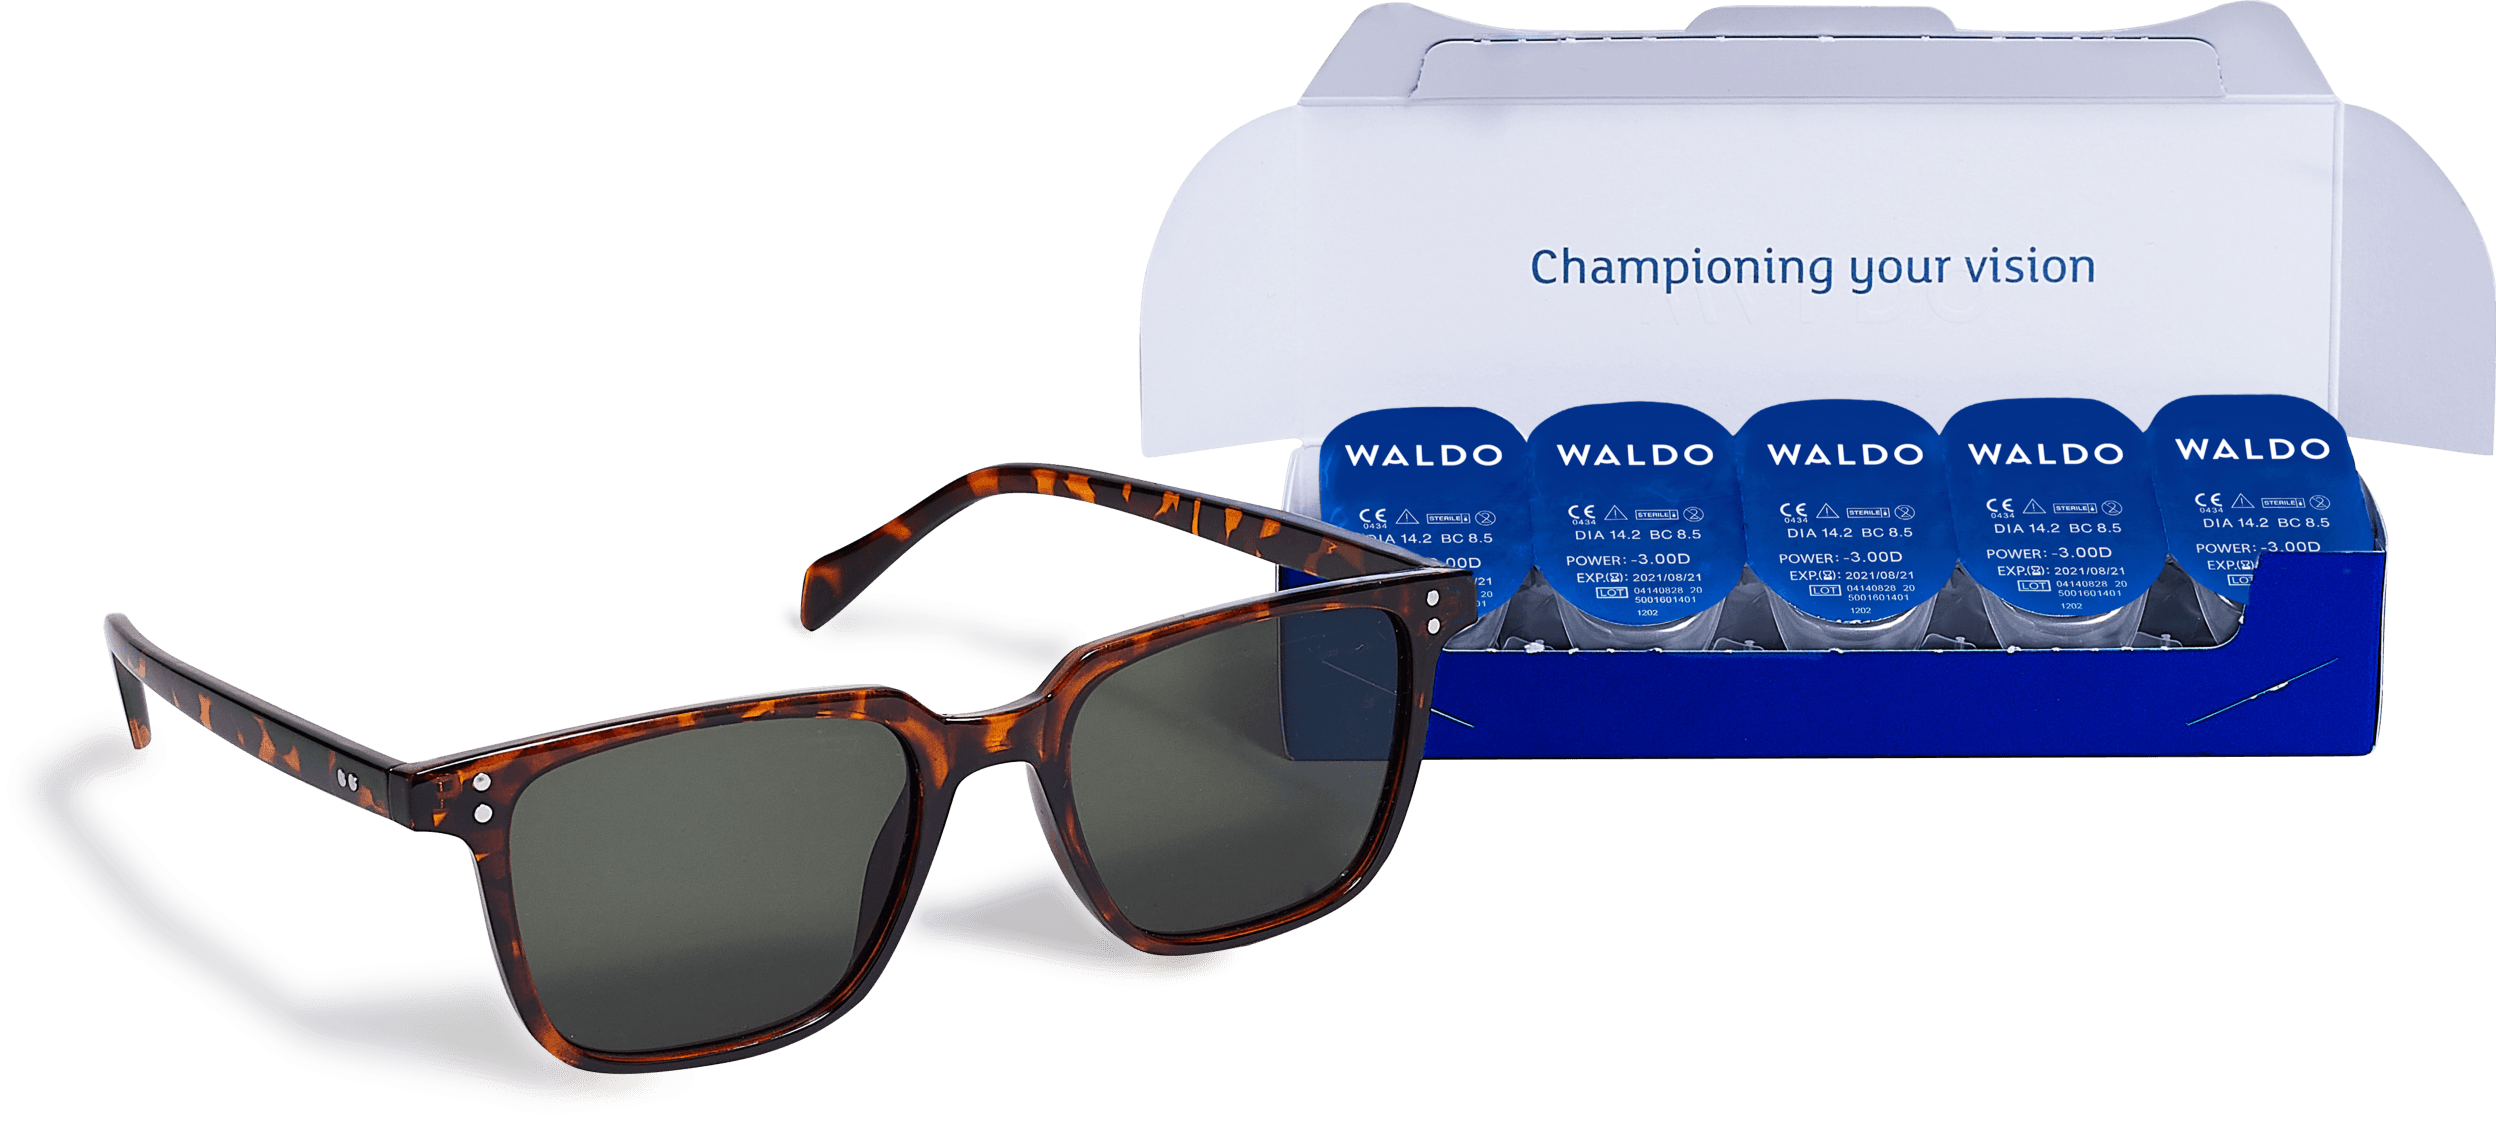
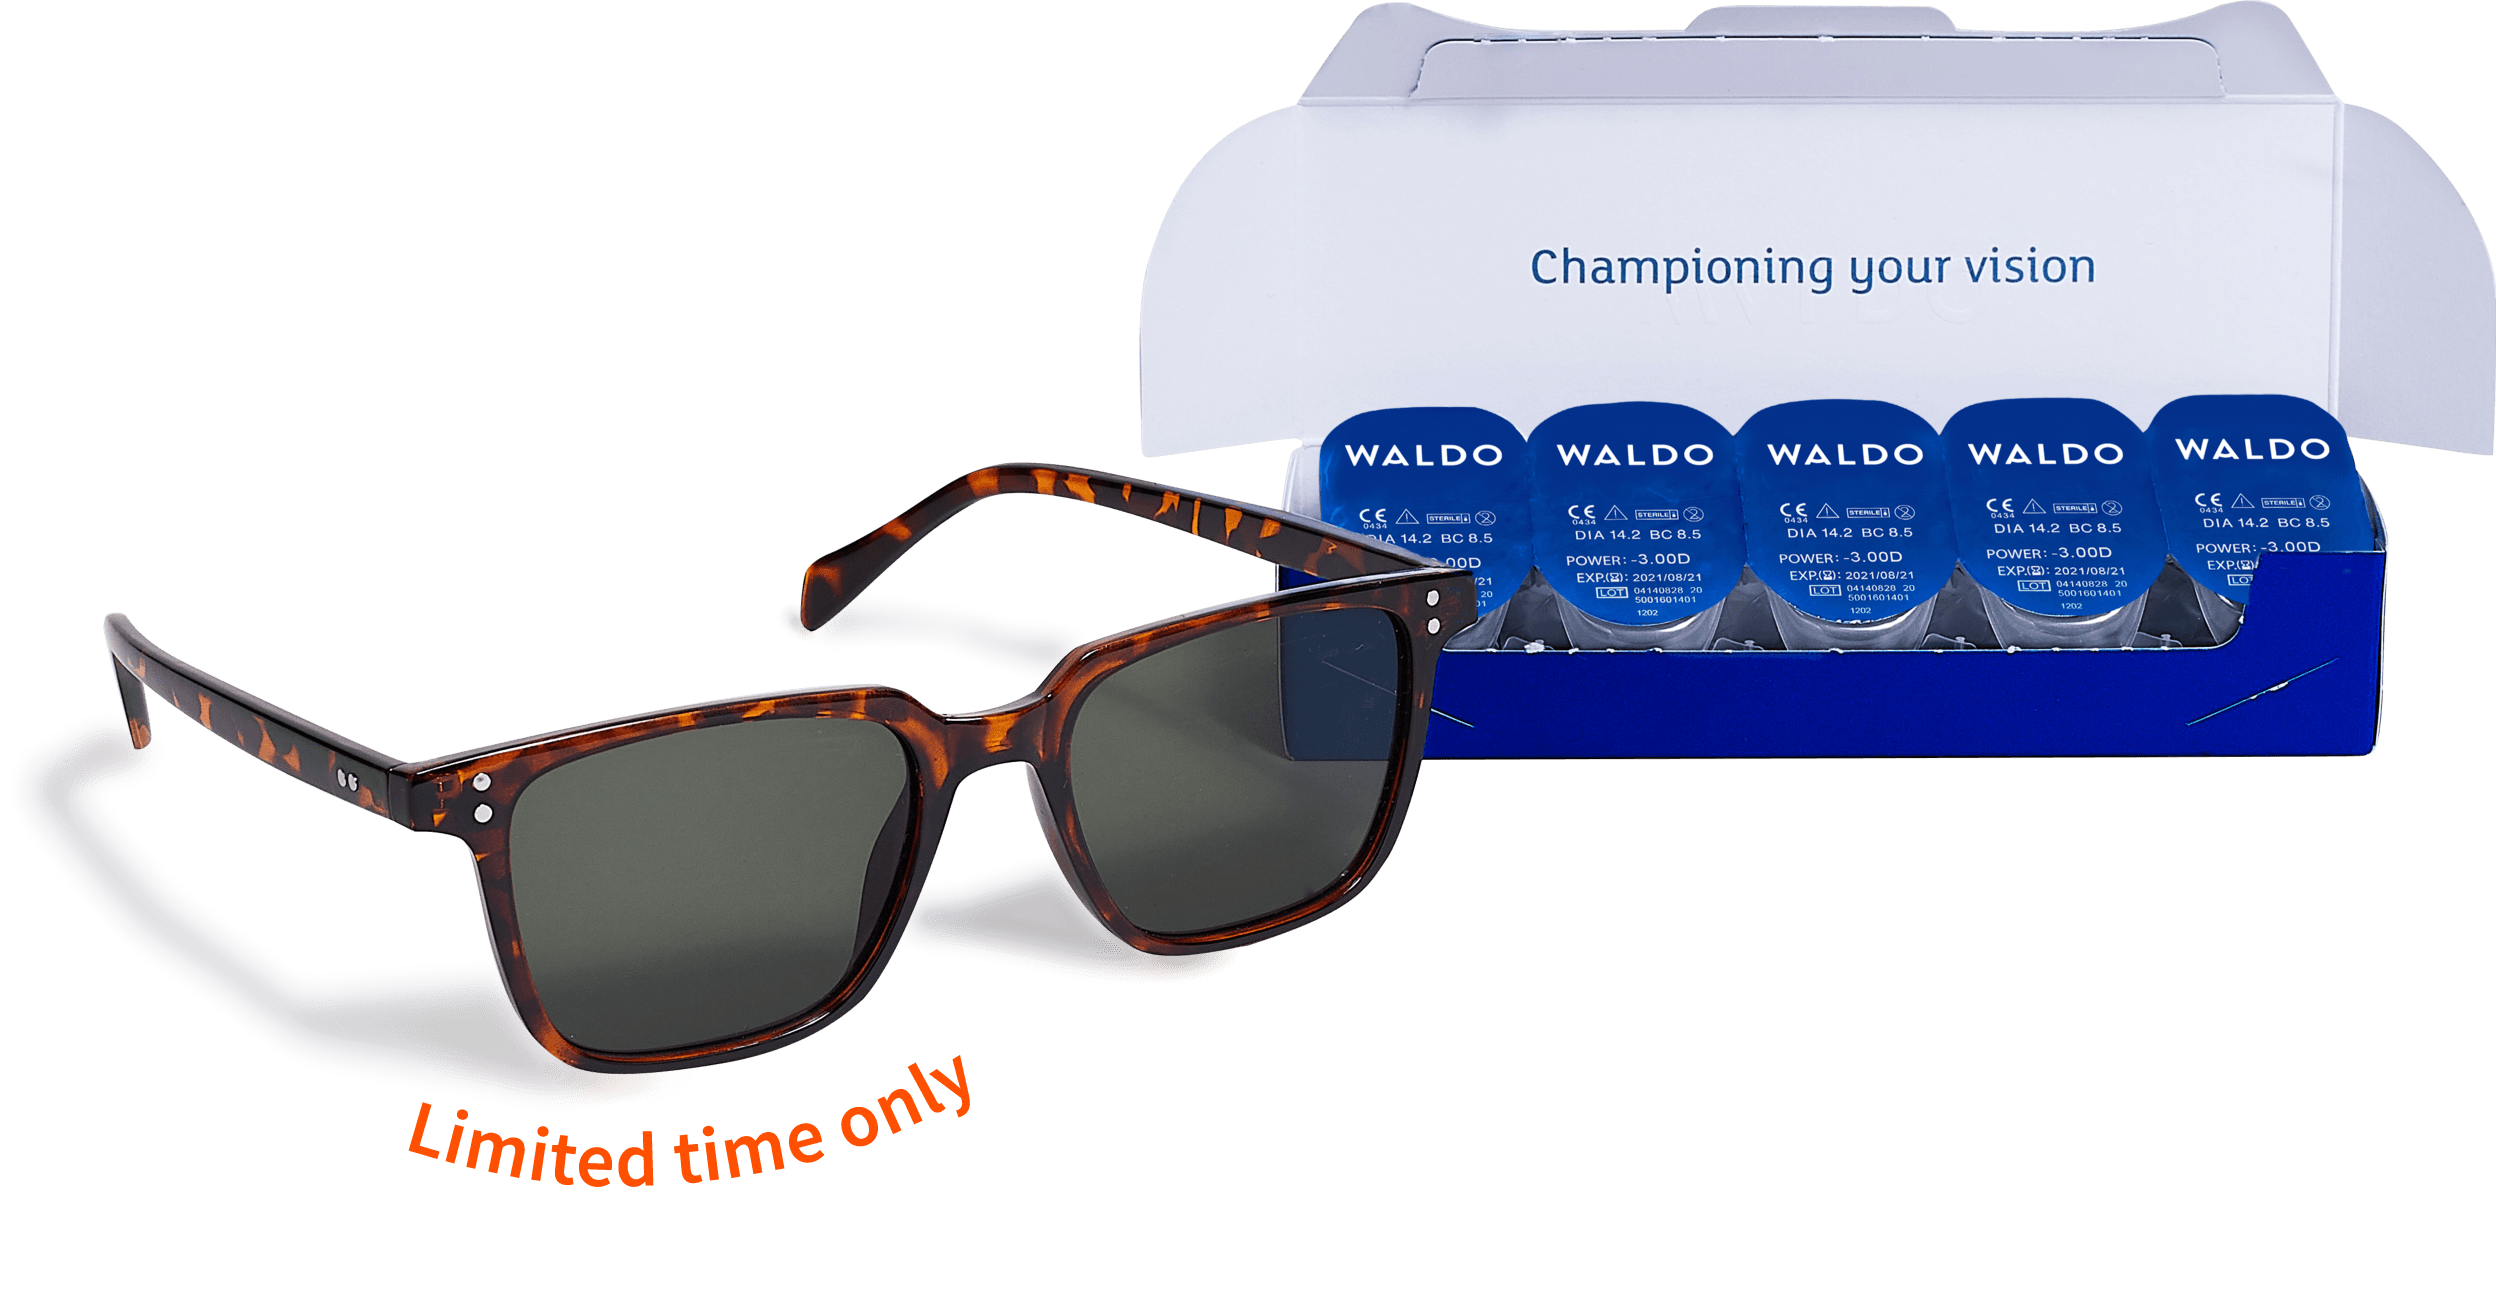
.

diff --git a/src/components/Slider.js b/src/components/Slider.js
@@ -31,10 +31,9 @@ const Slider = () => {
       pagination={{ clickable: true }}
       onSlideChange={() => console.log('slide change')}
       onSwiper={(swiper) => console.log(swiper)}
-      className="bg-grey-waldo md:w-3/4 md:h-1/2"
+      className="bg-grey-waldo "
     >
       <SwiperSlide className="static md:w-20 md:h-20">
-          <img className="absolute top-72 left-16" src={imageLimited} alt="limited time only" />
           <img className="absolute top-40 right-1 transform scale-75" src={image5} alt="waldo blue light glasses" />
       </SwiperSlide>
       <SwiperSlide className="static">
@@ -44,7 +43,7 @@ const Slider = () => {
           <img src={image7} alt="waldo lady shades" />
       </SwiperSlide>
       <SwiperSlide>
-          <img src={image8} alt="waldo guy mens shades" className="absolute top-32 transform scale-110" />
+          <img src={image8} alt="waldo guy mens shades" className="absolute md:top-32 transform scale-110" />
       </SwiperSlide>
     </Swiper>
   );

diff --git a/src/components/Features.js b/src/components/Features.js
@@ -19,7 +19,7 @@ const Features = () => {
                     <p className="font-light">Free delivery</p>
                 </div>
             </div>
-            <button className="bg-orange-waldo hover:bg-blue-waldo uppercase text-sm text-white font-bold mt-5 w-full h-16">
+            <button className="bg-orange-waldo hover:bg-blue-waldo uppercase text-sm text-white font-bold mt-5 w-full h-16 lg:w-44 lg:h-14">
                 Get Started
             </button>
         </div>

diff --git a/src/components/Hero.js b/src/components/Hero.js
@@ -5,7 +5,7 @@ import Slider from './Slider';
 
 const Hero = () => {
     return (
-        <div className="container mx-auto p-4 md:flex flex-row-reverse">
+        <div className="container mx-auto p-4 lg:flex flex-row-reverse">
             <Slider />
             <Features />
         </div>
